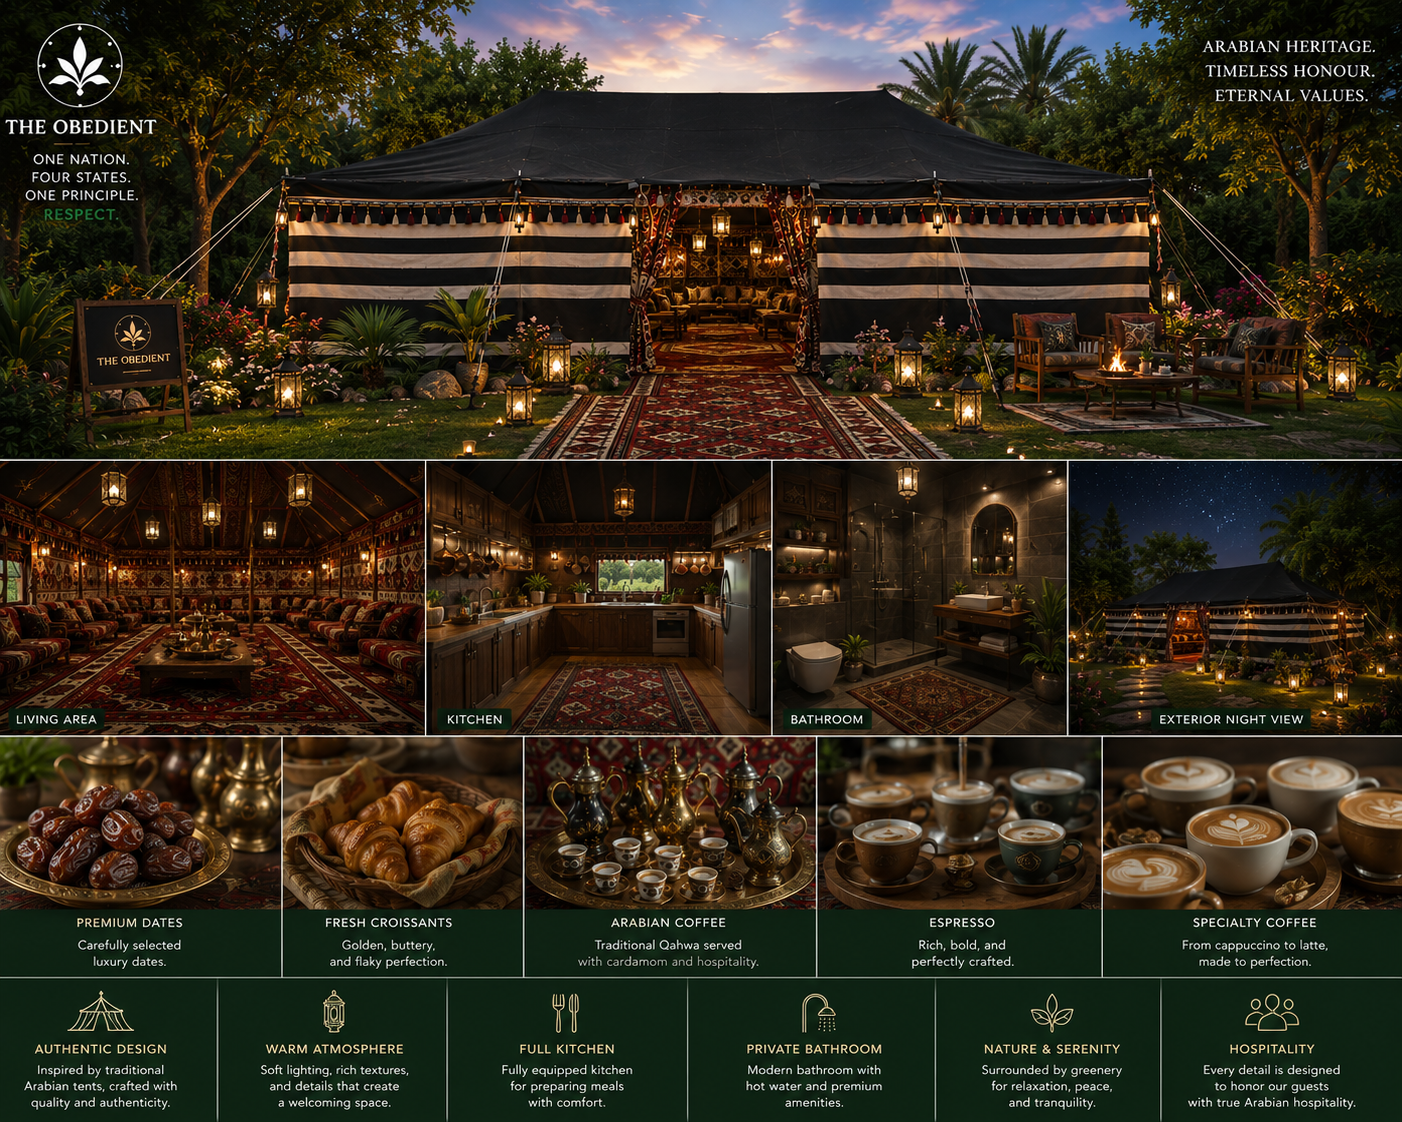
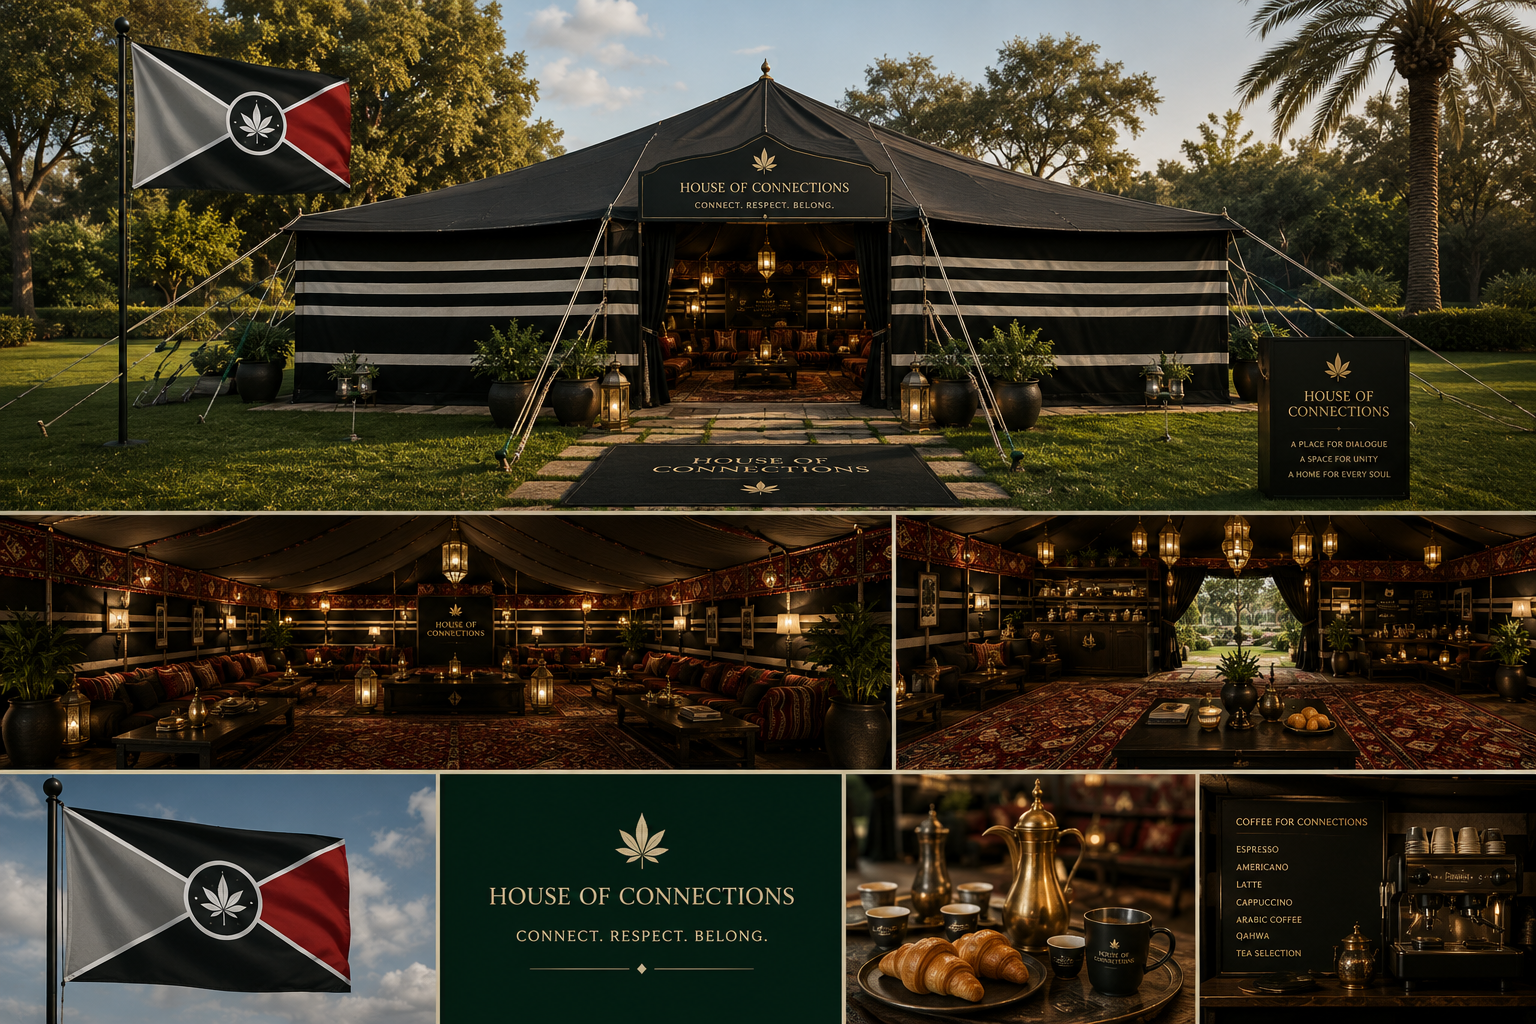
update index

diff --git a/style.css b/style.css
@@ -941,3 +941,85 @@ body.dark-mode .house-info h3 {
     background:#0f2f1a;
 
 }
+
+/* ===========================
+   TRANSPORTATION PAGE
+=========================== */
+
+.transport-grid {
+  display: grid;
+  grid-template-columns: repeat(3, 1fr);
+  gap: 28px;
+  margin-top: 35px;
+}
+
+.transport-card {
+  background: var(--card);
+  border: 1px solid var(--border);
+  border-radius: 22px;
+  padding: 45px 35px;
+  text-align: center;
+  transition: 0.35s ease;
+}
+
+.transport-card:hover {
+  transform: translateY(-8px);
+  box-shadow: 0 25px 50px rgba(0,0,0,0.1);
+}
+
+.transport-icon {
+  width: 90px;
+  height: 90px;
+  margin: 0 auto 25px;
+  border: 1px solid var(--green);
+  border-radius: 50%;
+  display: grid;
+  place-items: center;
+  font-size: 42px;
+}
+
+.transport-card h3 {
+  color: var(--green);
+  font-size: 30px;
+  margin-bottom: 15px;
+}
+
+.transport-card p {
+  line-height: 1.8;
+  color: #555;
+}
+
+.transport-note {
+  margin: 55px auto 0;
+  max-width: 900px;
+  text-align: center;
+  letter-spacing: 3px;
+  text-transform: uppercase;
+  color: var(--green);
+  font-size: 15px;
+  border-top: 1px solid var(--border);
+  padding-top: 28px;
+}
+
+body.dark-mode .transport-card {
+  background: #181818;
+}
+
+body.dark-mode .transport-card p {
+  color: #d4d4d4;
+}
+
+body.dark-mode .transport-card h3,
+body.dark-mode .transport-note {
+  color: var(--stone);
+}
+
+body.dark-mode .transport-icon {
+  border-color: var(--stone);
+}
+
+@media(max-width: 900px) {
+  .transport-grid {
+    grid-template-columns: 1fr;
+  }
+}

diff --git a/index.html b/index.html
@@ -68,16 +68,17 @@
       </div>
 
       <ul class="toc-list">
-        <li><a href="#about">01 · About Us</a></li>
-        <li><a href="#chapter1">02 · The Obedient</a></li>
-        <li><a href="#chapter2">03 · The Four State Flags</a></li>
-        <li><a href="#chapter3">04 · Official Currency</a></li>
-        <li><a href="#chapter4">05 · Our Philosophy</a></li>
-        <li><a href="#chapter5">06 · House of Connection</a></li>
+        <li><a href="#about">00 · About Us</a></li>
+        <li><a href="#chapter1">01 · The Obedient</a></li>
+        <li><a href="#chapter2">02 · The Four State Flags</a></li>
+        <li><a href="#chapter3">03 · Official Currency</a></li>
+        <li><a href="#chapter4">04 · Our Philosophy</a></li>
+        <li><a href="#chapter5">05 · House of Connection</a></li>
+        <li><a href="#chapter6">06 · Transportation</a></li>
         <li><a href="#news">07 · News</a></li>
       </ul>
 
-      <div class="page-number">00</div>
+      <!-- <div class="page-number">00</div> -->
     </section>
 
     <!-- ================= ABOUT ================= -->
@@ -93,7 +94,7 @@
         </p>
       </div>
 
-      <div class="page-number">01</div>
+      <div class="page-number">00</div>
     </section>
 
     <!-- ================= PAGE 1 ================= -->
@@ -110,7 +111,7 @@
 
       <img src="images/TheObedientUnited.png" alt="The Obedient four state flags" />
 
-      <div class="page-number">02</div>
+      <div class="page-number">01</div>
     </section>
 
     <!-- ================= PAGE 2 ================= -->
@@ -127,7 +128,7 @@
 
       <img src="images/XMode.png" alt="X Mode main flag" />
 
-      <div class="page-number">03</div>
+      <div class="page-number">02</div>
     </section>
 
     <!-- ================= PAGE 3 ================= -->
@@ -144,7 +145,7 @@
 
       <img src="images/CurrencyFrontandBack.png" alt="The Obedient official currency" />
 
-      <div class="page-number">04</div>
+      <div class="page-number">03</div>
     </section>
 
     <!-- ================= PAGE 4 ================= -->
@@ -177,10 +178,9 @@
         </div>
       </div>
 
-      <div class="page-number">05</div>
+      <div class="page-number">04</div>
     </section>
 
-    <!-- ================= PAGE 5 ================= -->
 
 <!-- ================= PAGE 5 ================= -->
 
@@ -232,7 +232,34 @@
     </div>
   </div>
 
-  <div class="page-number">06</div>
+  <div class="page-number">05</div>
+</section>
+
+    <!-- ================= PAGE 6 ================= -->
+
+<!-- ================= TRANSPORTATION ================= -->
+
+<section class="page" id="chapter6">
+
+    <div class="page-title">
+
+        <span>CHAPTER VI</span>
+
+        <h2>TRANSPORTATION</h2>
+
+        <p>
+            Official transportation approved by
+            The Obedient.
+        </p>
+
+    </div>
+
+    <img src="images/Transportation.png"
+         alt="Transportation"
+         class="book-image">
+
+    <div class="page-number">05</div>
+
 </section>
 
     <!-- ================= NEWS ================= -->
@@ -289,7 +316,7 @@
     </blockquote>
   </article>
 
-  <div class="page-number">06</div>
+  <div class="page-number">07</div>
 </section>
 
     <!-- ================= FINAL PAGE ================= -->
@@ -298,7 +325,7 @@
       <h2>Only The Obedient Will Enter It</h2>
       <h3>لن يدخلها إلا المطيع</h3>
 
-      <div class="page-number">07</div>
+      <div class="page-number">08</div>
     </section>
 
   </main>

diff --git a/script.js b/script.js
@@ -60,7 +60,7 @@ window.addEventListener("scroll", () => {
         }
 
         if(
-            ["chapter1","chapter2","chapter3","chapter4","chapter5","toc","final"].includes(current)
+            ["chapter1","chapter2","chapter3","chapter4","chapter5","chapter6","toc","final"].includes(current)
             && href === "#chapter1"
         ){
 